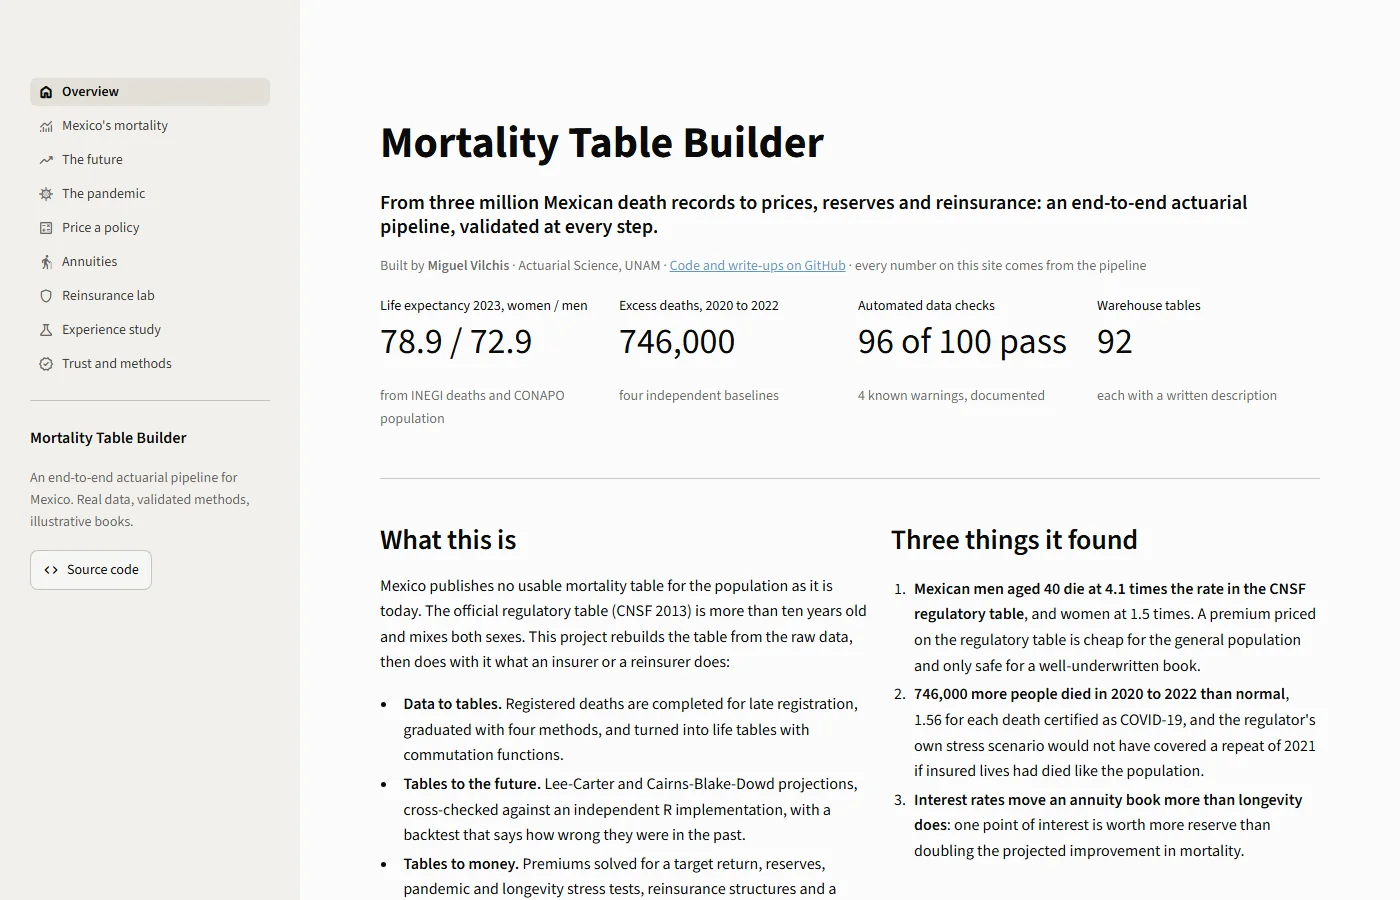
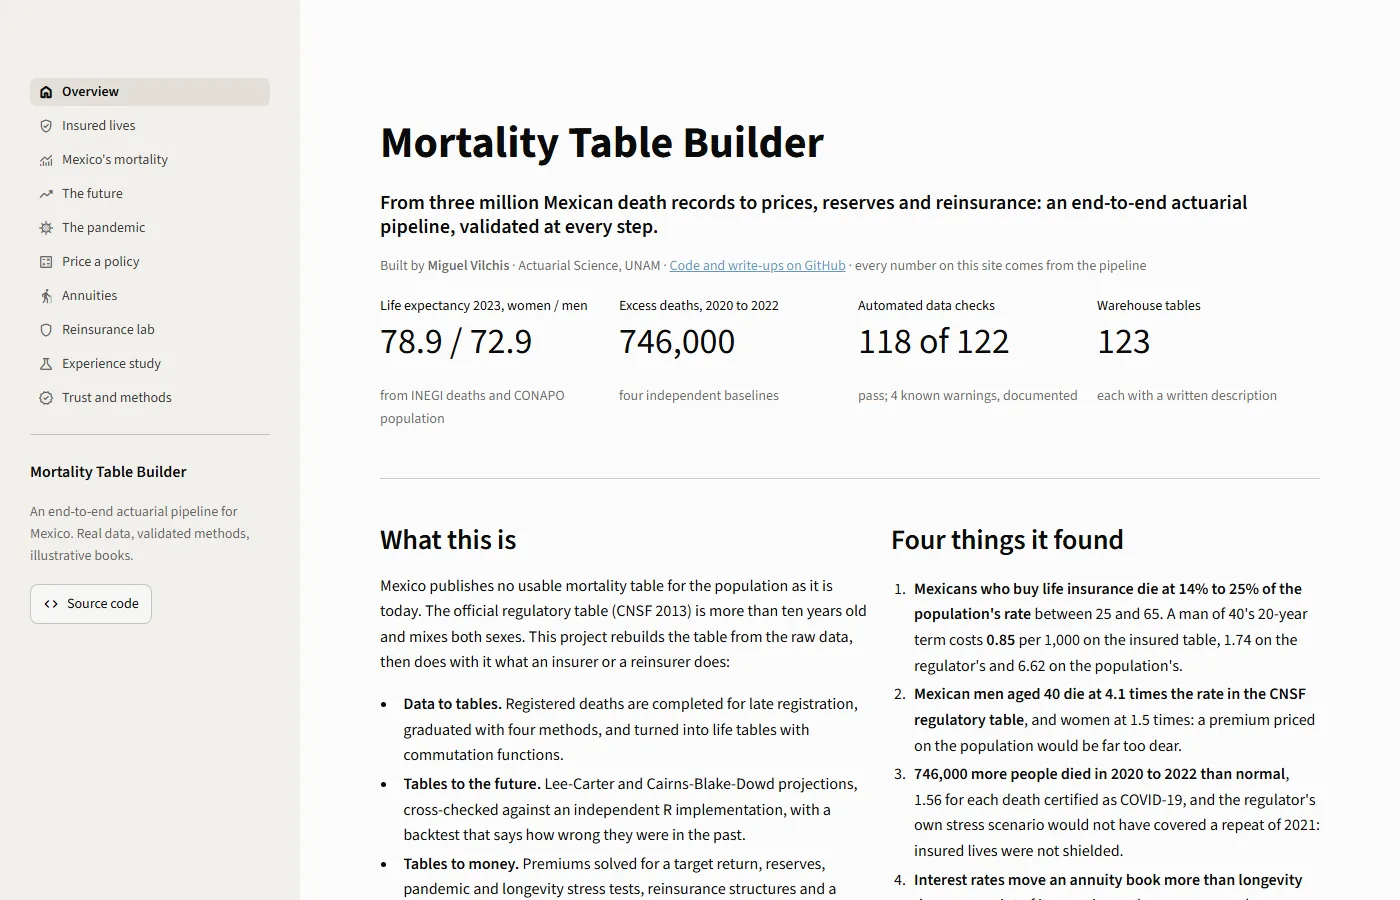
Gallery: retake dashboard screenshots and add the Insured lives page
Six screenshots of the current dashboard, updated alt text in English and Spanish, and the lightbox QA check adjusted to six items.

diff --git a/src/i18n/es.js b/src/i18n/es.js
@@ -95,9 +95,10 @@ const es = {
       next: 'Siguiente',
       count: (i, n) => `${i} de ${n}`,
       items: [
-        { file: 'overview', title: 'Resumen', alt: 'Página de resumen del dashboard (en inglés): esperanza de vida, 746 mil muertes en exceso, 96 de 100 verificaciones de datos aprobadas y tres hallazgos.' },
+        { file: 'overview', title: 'Resumen', alt: 'Página de resumen del dashboard (en inglés): esperanza de vida, 746 mil muertes en exceso, 118 de 122 verificaciones de datos aprobadas y cuatro hallazgos.' },
+        { file: 'insured', title: 'Vida asegurada', alt: 'Página de vida asegurada (en inglés): la tabla de mortalidad de personas aseguradas, hombres, frente a la población y a la tabla regulatoria, con tasas observadas, banda de confianza y la edad a partir de la cual la tabla es una estimación.' },
         { file: 'pandemic', title: 'La pandemia', alt: 'Página de la pandemia (en inglés): 746,429 muertes en exceso y muertes mensuales frente a la base esperada, con el rango de incertidumbre.' },
-        { file: 'price', title: 'Tarificar una póliza', alt: 'Página para tarificar una póliza (en inglés): controles de sexo, edad, plazo y rendimiento objetivo, con prima, rendimiento y año de recuperación calculados en vivo.' },
+        { file: 'price', title: 'Tarificar una póliza', alt: 'Página para tarificar una póliza (en inglés): controles de sexo, edad, plazo y rendimiento objetivo, tarificada por defecto con la tabla de vida asegurada, con prima, rendimiento y año de recuperación calculados en vivo.' },
         { file: 'experience', title: 'Estudio de experiencia', alt: 'Página del estudio de experiencia (en inglés): mortalidad real entre esperada por clase de suscripción con intervalos de confianza de 95%, sobre una cartera sintética.' },
         { file: 'reinsurance', title: 'Laboratorio de reaseguro', alt: 'Página del laboratorio de reaseguro (en inglés): controles de frecuencia de pandemia y condiciones de mercado, y una selección de tratado para comparar.' },
       ],

diff --git a/src/i18n/en.js b/src/i18n/en.js
@@ -95,9 +95,10 @@ const en = {
       next: 'Next',
       count: (i, n) => `${i} of ${n}`,
       items: [
-        { file: 'overview', title: 'Overview', alt: 'Dashboard overview page: life expectancy, 746,000 excess deaths, 96 of 100 data checks passing and three findings.' },
+        { file: 'overview', title: 'Overview', alt: 'Dashboard overview page: life expectancy, 746,000 excess deaths, 118 of 122 data checks passing and four findings.' },
+        { file: 'insured', title: 'Insured lives', alt: 'Insured lives page: the insured-lives mortality table for men against the population and the regulatory table, with raw rates, a confidence band and the age above which the table is an estimate.' },
         { file: 'pandemic', title: 'The pandemic', alt: 'Pandemic page: 746,429 excess deaths, and monthly deaths against the expected baseline, with the uncertainty range shown.' },
-        { file: 'price', title: 'Price a policy', alt: 'Price a policy page: sliders for sex, age, term and target return, with the premium, return and payback year computed live.' },
+        { file: 'price', title: 'Price a policy', alt: 'Price a policy page: sliders for sex, age, term and target return, priced by default on the insured-lives table, with the premium, return and payback year computed live.' },
         { file: 'experience', title: 'Experience study', alt: 'Experience study page: actual over expected mortality by underwriting class with 95% confidence intervals, on a synthetic book.' },
         { file: 'reinsurance', title: 'Reinsurance lab', alt: 'Reinsurance lab page: sliders for pandemic frequency and market terms, and a choice of treaty to compare.' },
       ],

diff --git a/scripts/qa/qa.py b/scripts/qa/qa.py
@@ -106,7 +106,7 @@ with sync_playwright() as p:
     check("lightbox opens (dialog)", page.locator("dialog[open]").count() == 1)
     page.keyboard.press("ArrowRight")
     page.wait_for_timeout(200)
-    check("lightbox arrow key advances", "3 of 5" in page.locator("dialog[open]").inner_text())
+    check("lightbox arrow key advances", "4 of 6" in page.locator("dialog[open]").inner_text())
     page.screenshot(path=str(OUT / "06-lightbox.png"))
     page.keyboard.press("Escape")
     page.wait_for_timeout(300)
